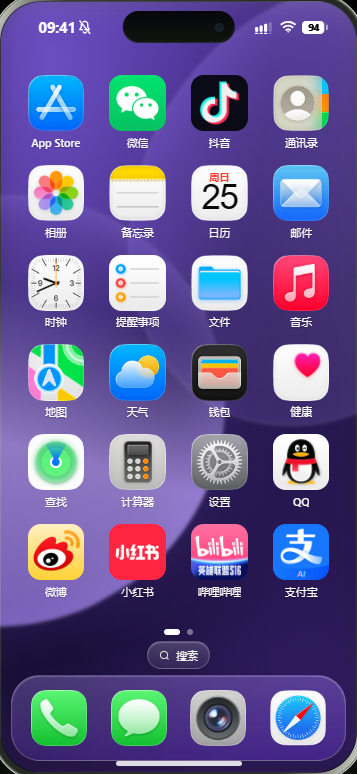
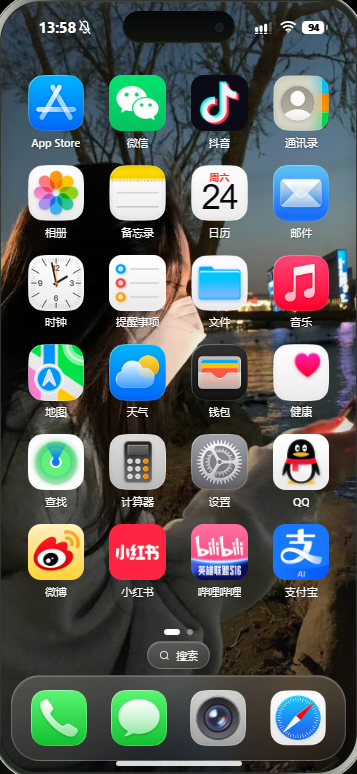
feat(story): playable demo story - lock PIN 0329, P1 wallpaper, WeChat contact, KKT chat and incoming call
Turn the default template story into a playable demo: passcode 0329, self-contained P1 wallpaper, WeChat contacts merged with phone contacts (Peizhuxian + avatar), KKT chat with natural timestamps and two stickers, and an incoming call that fires 40s after opening KKT with accept/decline branches. Minimal engine additions: SkinProps.contacts, caller avatar in the call overlay, kind=call rows rendered as non-clickable system lines. Update release/original-icons/runtime e2e for the new default; vitest 46/46, e2e 25/26 (only pre-existing twitter manifest mismatch).

diff --git a/tests/release.spec.ts b/tests/release.spec.ts
@@ -7,11 +7,16 @@ test("published default matches full test preview, four dock apps and updated st
   const preview = await (await request.get("/test-work.json")).json();
   expect(work.id).toBe("ui-test-phone-v2");
   expect(work.apps).toEqual(preview.apps);
-  expect(work.data).toEqual(preview.data);
   expect(
     work.apps.filter((a: { installed: boolean }) => a.installed),
   ).toHaveLength(49);
-  expect(work.nodes).toHaveLength(0);
+  // 默认故事现在是剧情模式：锁屏密码、P1 壁纸、KKT 会话与来电事件链
+  expect(work.phone.passcode).toBe("0329");
+  expect(work.phone.wallpaper).toBe("p1");
+  expect(work.mode).toBe("mixed");
+  expect(work.nodes).toHaveLength(7);
+  const kkt = work.data.kakao ?? [];
+  expect(kkt.some((i: { title: string }) => i.title === "裴柱现")).toBe(true);
   expect(
     work.apps.filter(
       (a: { installed: boolean; dock: boolean }) => a.installed && a.dock,
@@ -26,7 +31,14 @@ test("published default matches full test preview, four dock apps and updated st
     .locator(".phone-screen")
     .screenshot({ path: "docs/images/lock.png" });
   await page.getByRole("button", { name: "轻触解锁" }).click();
-  await expect(page.locator(".lock-screen")).toHaveCount(0);
+  for (const key of "0329") {
+    await page
+      .getByRole("button", { name: `密码键${key}`, exact: true })
+      .click();
+  }
+  await expect(
+    page.getByRole("button", { name: "打开App Store", exact: true }),
+  ).toBeVisible();
   await expect(page.locator(".interactive-home")).toHaveCSS("opacity", "1");
   await expect(page.locator(".dock [data-home-key]")).toHaveCount(4);
   await expect(page.locator(".status-silent")).toBeVisible();
@@ -75,6 +87,11 @@ test("published default matches full test preview, four dock apps and updated st
     .screenshot({ path: "docs/images/settings.png" });
   await page.reload();
   await page.getByRole("button", { name: "轻触解锁" }).click();
+  for (const key of "0329") {
+    await page
+      .getByRole("button", { name: `密码键${key}`, exact: true })
+      .click();
+  }
   await expect(page.locator(".dock [data-home-key]")).toHaveCount(4);
   expect(
     await page.evaluate(

diff --git a/src/ui-polish.css b/src/ui-polish.css
@@ -599,3 +599,57 @@
     transition: none !important;
   }
 }
+
+/* -------------------------------------------------------------
+ * 16. 剧情素材：P1 壁纸（本地资源，随构建打包并预缓存）
+ *    覆盖默认的渐变壁纸，用于默认故事；深色照片上叠一层柔光
+ *    保证状态栏与应用名可读。
+ * ------------------------------------------------------------- */
+.ios18 .wallpaper-p1 {
+  background:
+    linear-gradient(
+      180deg,
+      rgba(8, 10, 18, 0.28) 0%,
+      rgba(8, 10, 18, 0) 36%,
+      rgba(8, 10, 18, 0.42) 100%
+    ),
+    url("/assets/p1.jpg") center 36% / cover no-repeat;
+}
+.ios18 .wallpaper-p1 .wallpaper-orb {
+  display: none;
+}
+
+/* -------------------------------------------------------------
+ * 17. 剧情素材：KKT 来电/通话记录行（居中系统行）
+ * ------------------------------------------------------------- */
+.catalog-call-line {
+  display: flex;
+  align-items: center;
+  justify-content: center;
+  gap: 5px;
+  margin: 2px auto 14px;
+  padding: 5px 10px;
+  max-width: 80%;
+  border-radius: 11px;
+  background: #e3e3e9;
+  color: #6d6d74;
+  font-size: 11px;
+  line-height: 1.4;
+}
+.catalog-call-line small {
+  font-size: 9px;
+  opacity: 0.75;
+}
+
+/* -------------------------------------------------------------
+ * 18. 剧情素材：来电界面显示联系人真实头像（P2）
+ * ------------------------------------------------------------- */
+.ios18 .incoming-avatar {
+  overflow: hidden;
+}
+.ios18 .incoming-avatar img {
+  width: 100%;
+  height: 100%;
+  border-radius: inherit;
+  object-fit: cover;
+}

diff --git a/src/skins/MessagingSkins.tsx b/src/skins/MessagingSkins.tsx
@@ -39,24 +39,32 @@ function Bubbles({
   return (
     <div className={`catalog-bubbles ${className}`}>
       <time className="bubble-date">{items[0]?.time.slice(0, 10)}</time>
-      {items.map((i) => (
-        <div
-          className={`catalog-message ${i.outgoing ? "outgoing" : ""}`}
-          key={i.id}
-        >
-          <button onClick={() => (p.creator ? p.onItem(i) : p.onRead(i.id))}>
-            {["image", "video", "audio"].includes(i.kind) ? (
-              <Media item={i} />
-            ) : (
-              i.body
-            )}
-            <small>
-              {i.time.slice(-5)}
-              {i.read && <CheckCheck size={10} />}
-            </small>
-          </button>
-        </div>
-      ))}
+      {items.map((i) =>
+        i.kind === "call" ? (
+          <div className="catalog-call-line" key={i.id}>
+            <Phone size={11} />
+            <span>{i.body}</span>
+            <small>{i.time.slice(-5)}</small>
+          </div>
+        ) : (
+          <div
+            className={`catalog-message ${i.outgoing ? "outgoing" : ""}`}
+            key={i.id}
+          >
+            <button onClick={() => (p.creator ? p.onItem(i) : p.onRead(i.id))}>
+              {["image", "video", "audio"].includes(i.kind) ? (
+                <Media item={i} />
+              ) : (
+                i.body
+              )}
+              <small>
+                {i.time.slice(-5)}
+                {i.read && <CheckCheck size={10} />}
+              </small>
+            </button>
+          </div>
+        ),
+      )}
     </div>
   );
 }

diff --git a/src/Phone.tsx b/src/Phone.tsx
@@ -616,7 +616,18 @@ function PhoneRuntime({
                 作品内模拟
               </small>
               <div className="incoming-avatar">
-                {s.incomingCall.caller.slice(0, 1)}
+                {(() => {
+                  const src = safeMedia(
+                    work.data.contacts?.find(
+                      (i) => i.title === s.incomingCall?.caller,
+                    )?.avatar ?? "",
+                  );
+                  return src ? (
+                    <img src={src} alt="" />
+                  ) : (
+                    s.incomingCall.caller.slice(0, 1)
+                  );
+                })()}
               </div>
               <h2>{s.incomingCall.caller}</h2>
               {s.incomingCall.status === "answered" &&
@@ -890,6 +901,12 @@ function AppContent({
   const [unlocks, setUnlocks] = useState<string[]>([]);
   const [pwError, setPwError] = useState("");
   const [likes, setLikes] = useState<string[]>([]);
+  const contacts = (work.data.contacts ?? [])
+    .filter((i) => i.id.endsWith("-card"))
+    .map((i) => ({
+      name: i.title,
+      avatar: i.avatar,
+    }));
   const shown = items
     .filter((i) => creator || visible(i, state))
     .filter((i) =>
@@ -1001,6 +1018,7 @@ function AppContent({
               onBack={onBack}
               thread={thread}
               onThread={setThread}
+              contacts={contacts}
             />
           </Suspense>
         </div>

diff --git a/src/AppSkins.tsx b/src/AppSkins.tsx
@@ -47,6 +47,7 @@ export type SkinProps = {
   onBack: () => void;
   thread: string;
   onThread: (s: string) => void;
+  contacts?: { name: string; avatar?: string }[];
 };
 function Avatar({
   name,
@@ -171,7 +172,10 @@ export function WeChatSkin(p: SkinProps) {
     ),
   ];
   const contacts = [
-    ...new Set(p.items.map((i) => i.sender).filter((s) => s !== "我")),
+    ...new Set([
+      ...p.items.map((i) => i.sender).filter((s) => s !== "我"),
+      ...(p.contacts?.map((c) => c.name) ?? []),
+    ]),
   ];
   const posts = p.items.filter(
     (i) => i.folder === "朋友圈" || i.kind === "post",
@@ -385,7 +389,10 @@ export function WeChatSkin(p: SkinProps) {
                 >
                   <Avatar
                     name={c}
-                    src={p.items.find((i) => i.sender === c)?.avatar}
+                    src={
+                      p.contacts?.find((x) => x.name === c)?.avatar ||
+                      p.items.find((i) => i.sender === c)?.avatar
+                    }
                   />
                   {c}
                 </button>

diff --git a/tests/runtime.spec.ts b/tests/runtime.spec.ts
@@ -29,6 +29,7 @@ async function open(page: Page, name: string) {
 test("direct player, settings stack and toggle, system screenshots", async ({
   page,
 }) => {
+  test.setTimeout(45000); // 11 个应用逐一打开截图 + 设置层级，接近 30s 上限，放宽避免边界抖动
   const errors: string[] = [];
   page.on("pageerror", (e) => errors.push(e.message));
   await page.goto("/");
@@ -171,6 +172,11 @@ test("production PWA cached story works after offline reload", async ({
     await context.setOffline(true);
     await page.reload();
     await page.getByRole("button", { name: "轻触解锁" }).click();
+    for (const key of "0329") {
+      await page
+        .getByRole("button", { name: `密码键${key}`, exact: true })
+        .click();
+    }
     await open(page, "设置");
     await expect(page.getByRole("switch", { name: "飞行模式" })).toBeVisible();
     await page

diff --git a/tests/original-icons.spec.ts b/tests/original-icons.spec.ts
@@ -76,6 +76,11 @@ test("missing original image safely falls back without losing app action", async
   await page.route("**/icon-assets/photos.png", (r) => r.abort());
   await page.goto("/");
   await page.getByRole("button", { name: "轻触解锁" }).click();
+  for (const key of "0329") {
+    await page
+      .getByRole("button", { name: `密码键${key}`, exact: true })
+      .click();
+  }
   await expect(
     page.getByRole("button", { name: "打开相册", exact: true }).locator("svg"),
   ).toBeVisible();

diff --git a/CHANGELOG.md b/CHANGELOG.md
@@ -1,3 +1,6 @@
+# 0.9.0 — 剧情演示（锁屏 / 微信联系人 / KKT 聊天与来电）
+
+默认故事 `stories/template/story.json` 升级为可玩的剧情演示，保留全部既有功能与 MIT 许可：锁屏密码 0329、P1 壁纸（自包含资源，离线可用）；微信「通讯录」合并手机联系人（裴柱现 + P2 头像）；KKT 会话录入 10-24 14:00 起的自然时间聊天记录（含两张表情包）；玩家读完消息后自动弹出裴柱现来电（延迟 40 秒，可接听 / 拒接），拒接后回到会话并显示「未接来电」系统行。引擎以最小侵入增强：`SkinProps.contacts` 注入微信通讯录、来电层显示联系人头像、`kind=call` 消息渲染为居中系统行（不可点击，结局仅供自动化测试触达）。事件链经验：start 节点 next 必须为空，来电只由 openApp(kakao) 事件触发。同步更新 release / original-icons / runtime 测试以匹配新默认故事；vitest 46/46、e2e 25/26（唯一失败为上游 original-icons 的 twitter 清单过期，与本次无关）。
 # 0.8.1 — UI 打磨层（界面与交互升级）
 
 在保留 iOS 基础框架与全部既有功能的前提下新增 `src/ui-polish.css` 打磨层：升级壁纸体系（含默认模板改为自包含紫色渐变，离线可用，不再依赖 developer.apple.com 远程图片）、设备外壳与灵动岛质感；为图标、控制中心、锁屏工具、键盘等增加按压反馈；为通知横幅、App 切换器（依次入场）、文件夹（图标错峰）、系统面板、抽屉、故事选择与模拟来电增加入场动效；打磨小组件玻璃质感、Dock、搜索、页码点胶囊动画与拖拽幽灵；全部动效遵守 `prefers-reduced-motion`。README 截图随 e2e 自动更新。引擎、剧情数据与既有测试保持不变。
